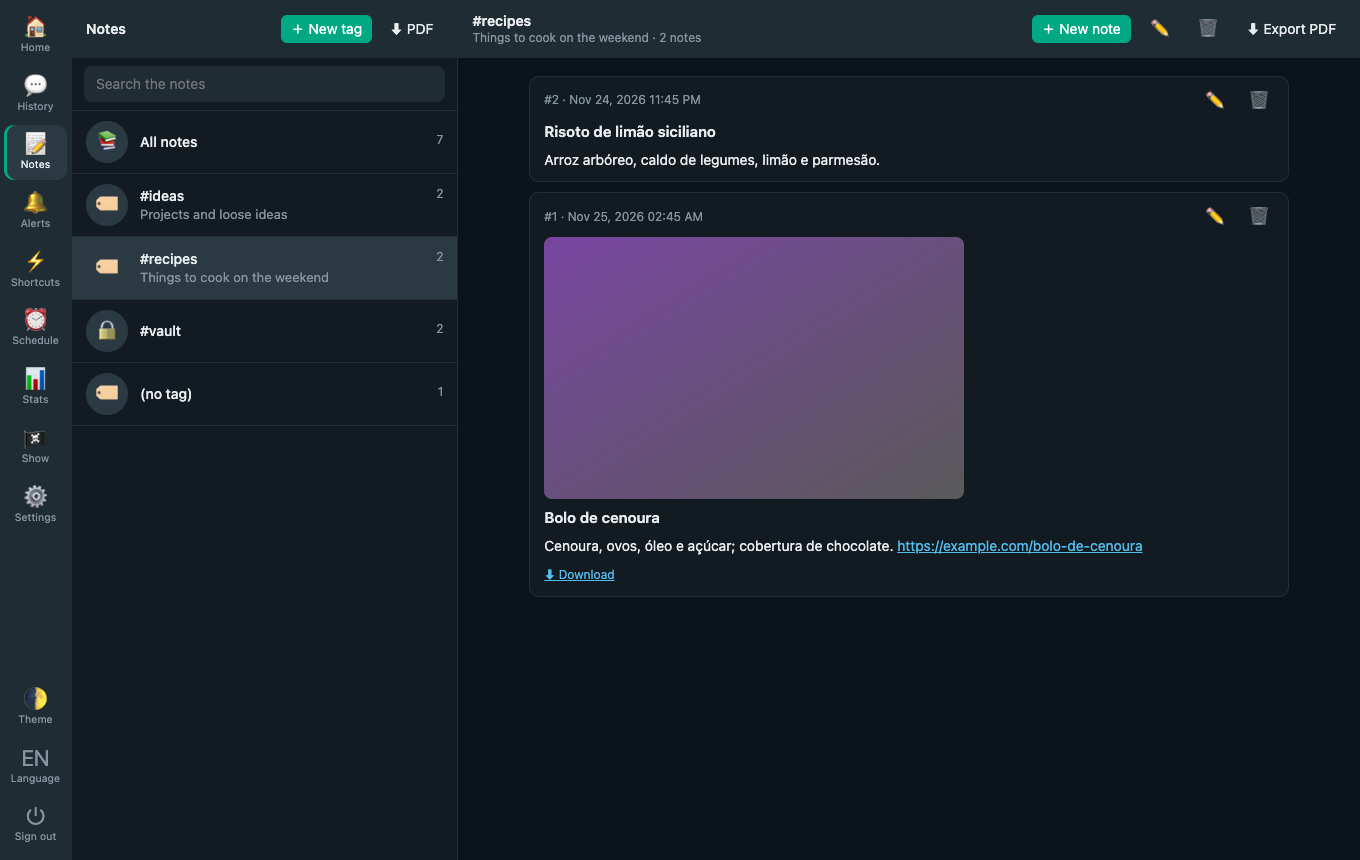
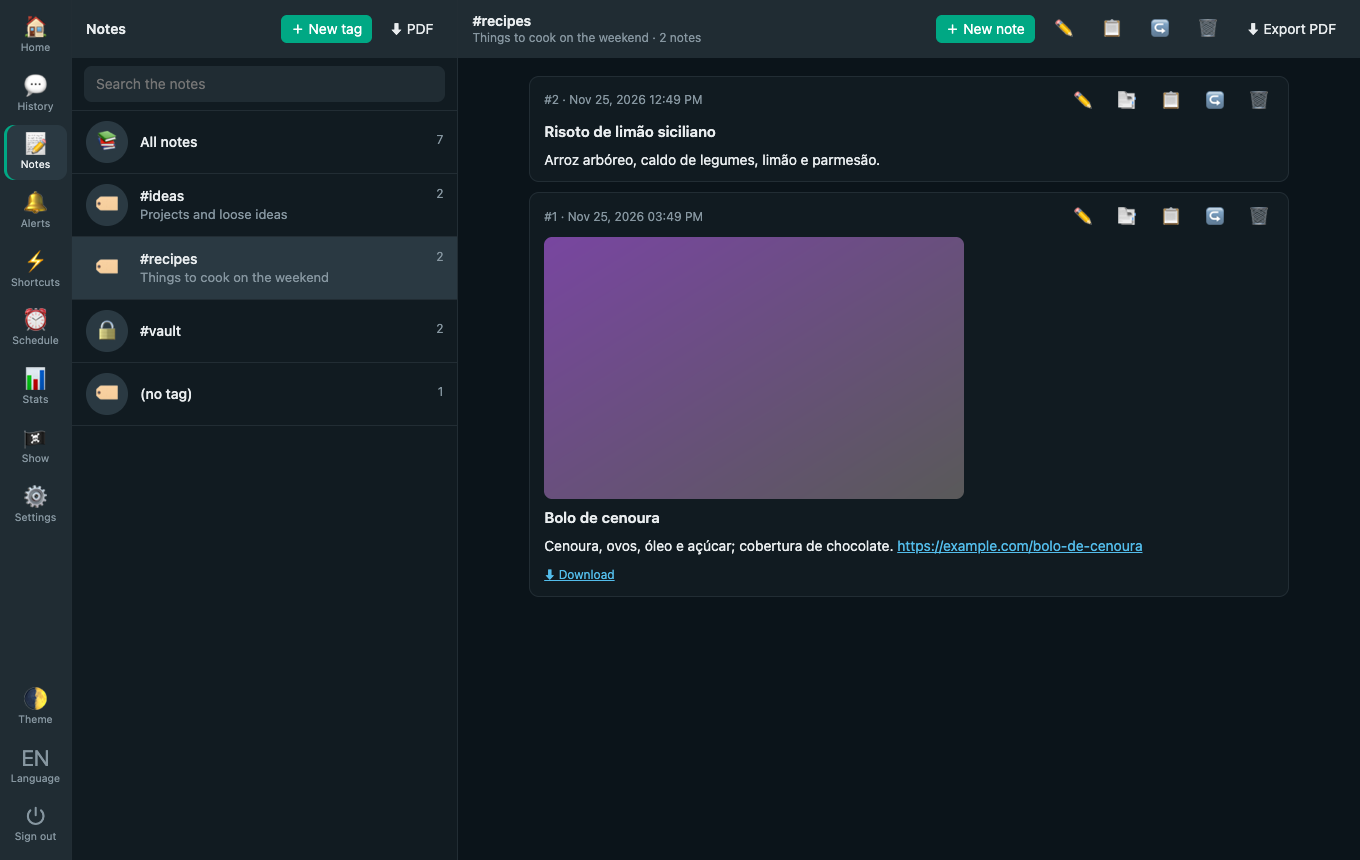
web: notes can be duplicated, copied and moved, with the tag picked from a list
A note gets 📑 (a duplicate in the same tag), 📋 (a copy to another tag) and ↪ (moves it). The tag
head gets 📋 (duplicates the tag under a new name) and ↪ (moves every note into another tag, merging
like /notes -move). Copies keep the text and the file, without the alert; protected tags stay out.

diff --git a/src/web/public/app.js b/src/web/public/app.js
@@ -28,7 +28,7 @@ const TEXTS = {
         vsPrevious: 'vs the previous period', noData: 'No data in this period yet.', cPerDay: 'Messages per day', cDeletedEdited: 'Deleted and edited per day', cHours: 'Messages by hour of the day',
         cHeat: 'When the chat is busy (weekday x hour)', cTypes: 'What the messages are', cChats: 'Chats with the most messages', cPeople: 'People who talk the most',
         text: 'text', mediaWord: 'media', weekdays: ['Sun', 'Mon', 'Tue', 'Wed', 'Thu', 'Fri', 'Sat'], msgsWord: 'messages', share: 'of the total',
-        cannotShow: 'this message could not be shown', phTag: 'travel', phTagDesc: 'places to visit', phNoteTag: 'ideas', envForced: (env) => `Decided by the ${env} variable (config/.env), which has priority over this setting`, noticeOn: 'Off: click to turn it on', noticeOff: 'On: click to turn it off', runOn: 'Running: click to pause', runOff: 'Paused: click to resume', clearHistory: 'Clear the history of this chat', clearBtn: 'Clear', clearTitle: (name) => `Clear the history · ${name}`, clearInfo: (r) => `${r.removed} messages will be deleted (with their media). ${r.kept} stay: the deleted, the edited and the ones with reactions, with what they had before.`, clearNothing: 'Nothing to delete: every message here is a deleted, edited or reacted one.', clearEmpty: 'This chat has no messages in the database.', cacheBtn: 'Clean', deleteNote: 'Delete the note', notice: 'Notice', spy: { nav: 'Show', subtitle: 'What /show keeps: the deleted, the edited, the reactions, the statuses and the channels', kinds: { deleted: 'Deleted', edited: 'Edited', reactions: 'Reactions', status: 'Statuses', channels: 'Channels' }, alerts: 'Notices in your private chat', alertOn: 'On: click to turn it off', alertOff: 'Off: click to turn it on', people: 'Who deletes, edits and reacts the most', nobody: 'Nobody yet.', search: 'Search the text, the chat or the person', empty: 'Nothing here.', mute: 'Mute this person (/mute)', unmute: 'Unmute (/unmute)', muted: 'muted', removeTitle: 'Take it out of the cache', removeText: 'The bot forgets this item (and its media); WhatsApp is not touched.', removed: 'removed', media: 'Open the media', openChat: 'Open the chat at this message', mutedCount: (n) => `${n} muted`, selectAll: 'All', selectOne: 'Select', selectHint: 'Click the items to select them (Shift+click: a range)', selected: (n) => `${n} selected`, removeSelected: (n) => `Take ${n} item${n === 1 ? '' : 's'} out of the cache` }, cacheClean: 'Clean the cache (/cache)', cacheRetention: 'What is past the retention windows (/cache -clean)', cachePick: 'Pick at least one.', cacheAll: 'Everything (/cache -all): every message (deleted, edited and reacted included), media, temporary files and backups', cacheAllWarning: '⚠ Everything takes the whole history of every chat and the backups too: there is no undo. The notes always stay.', flushAll: 'Clear the history of every chat', flushBtn: 'Clear every chat', flushEmpty: 'There are no messages in the database.', flushWarning: (n) => `⚠ This clears the history of all the ${n} chats at once, not only this one. There is no undo (only a /backup).`, clearAll: (n) => `Delete everything (${n}), including the deleted, the edited and the reacted ones, with their media`, webPanel: 'Web interface', webAt: 'Open at', webAccess: 'Access', webLogin: 'Login and session', webScreen: 'Screen', webAlerts: 'Warnings', notSet: 'not set', needsRestart: 'Takes effect when the bot restarts', restSettings: 'All the other settings', protectedHere: 'Change it with /set in WhatsApp',  meBtn: 'Me (my private chat)', watchedBy: '/watch', openInHistory: 'Open in the history, at this message', presenceSource: 'WhatsApp presence · time not confirmed', newTag: 'New tag', newNote: 'New note', editTagBtn: 'Edit the tag', removeTag: 'Remove the tag', confirmRemoveTag: 'Remove this tag (it has no notes)?', removeTagWithNotes: 'Remove the tag and everything in it', removeTagInfo: (n) => `${n} note${n === 1 ? '' : 's'} (and their media) will be deleted, along with the tag's description and lock, if any.`, historyBtn: 'History', loadingHistory: 'Loading the history…', searchContact: 'Search a contact or group (name or number) or type an email', pickContact: 'Search the contact (name or number)', noMatches: 'No contact found', privateChat: 'Empty: it goes to your private chat', useEmail: (email) => `✉ Use ${email}`, updatedAt: (time) => `updated at ${time}`, noHistory: 'Nothing recorded yet.', removeReading: 'Remove this reading', historyOf: (name, total) => `${name} · ${total}`, securityChanged: (who) => `🔒 ${who ? `${who}'s` : 'a participant\'s'} security code changed`, systemNotice: (text) => `ℹ ${text ?? 'WhatsApp notice'}`, loadMore: 'Load more', noMore: 'No more messages.', loadingFor: (name) => `Loading ${name}…`, loadingStats: 'Loading the statistics…', loadingHome: 'Loading…', statsOverview: 'Statistics', last30: 'last 30 days', seeAllStats: 'See all the statistics',
+        cannotShow: 'this message could not be shown', phTag: 'travel', phTagDesc: 'places to visit', phNoteTag: 'ideas', envForced: (env) => `Decided by the ${env} variable (config/.env), which has priority over this setting`, noticeOn: 'Off: click to turn it on', noticeOff: 'On: click to turn it off', runOn: 'Running: click to pause', runOff: 'Paused: click to resume', clearHistory: 'Clear the history of this chat', clearBtn: 'Clear', clearTitle: (name) => `Clear the history · ${name}`, clearInfo: (r) => `${r.removed} messages will be deleted (with their media). ${r.kept} stay: the deleted, the edited and the ones with reactions, with what they had before.`, clearNothing: 'Nothing to delete: every message here is a deleted, edited or reacted one.', clearEmpty: 'This chat has no messages in the database.', cacheBtn: 'Clean', deleteNote: 'Delete the note', notice: 'Notice', spy: { nav: 'Show', subtitle: 'What /show keeps: the deleted, the edited, the reactions, the statuses and the channels', kinds: { deleted: 'Deleted', edited: 'Edited', reactions: 'Reactions', status: 'Statuses', channels: 'Channels' }, alerts: 'Notices in your private chat', alertOn: 'On: click to turn it off', alertOff: 'Off: click to turn it on', people: 'Who deletes, edits and reacts the most', nobody: 'Nobody yet.', search: 'Search the text, the chat or the person', empty: 'Nothing here.', mute: 'Mute this person (/mute)', unmute: 'Unmute (/unmute)', muted: 'muted', removeTitle: 'Take it out of the cache', removeText: 'The bot forgets this item (and its media); WhatsApp is not touched.', removed: 'removed', media: 'Open the media', openChat: 'Open the chat at this message', mutedCount: (n) => `${n} muted`, selectAll: 'All', selectOne: 'Select', selectHint: 'Click the items to select them (Shift+click: a range)', selected: (n) => `${n} selected`, removeSelected: (n) => `Take ${n} item${n === 1 ? '' : 's'} out of the cache` }, cacheClean: 'Clean the cache (/cache)', cacheRetention: 'What is past the retention windows (/cache -clean)', cachePick: 'Pick at least one.', cacheAll: 'Everything (/cache -all): every message (deleted, edited and reacted included), media, temporary files and backups', cacheAllWarning: '⚠ Everything takes the whole history of every chat and the backups too: there is no undo. The notes always stay.', flushAll: 'Clear the history of every chat', flushBtn: 'Clear every chat', flushEmpty: 'There are no messages in the database.', flushWarning: (n) => `⚠ This clears the history of all the ${n} chats at once, not only this one. There is no undo (only a /backup).`, clearAll: (n) => `Delete everything (${n}), including the deleted, the edited and the reacted ones, with their media`, webPanel: 'Web interface', webAt: 'Open at', webAccess: 'Access', webLogin: 'Login and session', webScreen: 'Screen', webAlerts: 'Warnings', notSet: 'not set', needsRestart: 'Takes effect when the bot restarts', restSettings: 'All the other settings', protectedHere: 'Change it with /set in WhatsApp',  meBtn: 'Me (my private chat)', watchedBy: '/watch', openInHistory: 'Open in the history, at this message', presenceSource: 'WhatsApp presence · time not confirmed', newTag: 'New tag', newNote: 'New note', editTagBtn: 'Edit the tag', copyTag: 'Duplicate the tag', copyTagInfo: (n) => `Its ${n} note${n === 1 ? '' : 's'} (and files) go as copies to the new tag, without the alerts.`, moveNote: 'Move to another tag', copyNote: 'Copy to another tag', duplicateNote: 'Duplicate the note', moveTag: 'Move every note to another tag', moveTagInfo: (n) => `The ${n} note${n === 1 ? '' : 's'} go to the tag you pick (if it has notes, the two merge).`, copyNoteInfo: 'The copy keeps the text and the file, without the alert.', pickTag: 'Tag', orNewTag: 'or a new tag', removeTag: 'Remove the tag', confirmRemoveTag: 'Remove this tag (it has no notes)?', removeTagWithNotes: 'Remove the tag and everything in it', removeTagInfo: (n) => `${n} note${n === 1 ? '' : 's'} (and their media) will be deleted, along with the tag's description and lock, if any.`, historyBtn: 'History', loadingHistory: 'Loading the history…', searchContact: 'Search a contact or group (name or number) or type an email', pickContact: 'Search the contact (name or number)', noMatches: 'No contact found', privateChat: 'Empty: it goes to your private chat', useEmail: (email) => `✉ Use ${email}`, updatedAt: (time) => `updated at ${time}`, noHistory: 'Nothing recorded yet.', removeReading: 'Remove this reading', historyOf: (name, total) => `${name} · ${total}`, securityChanged: (who) => `🔒 ${who ? `${who}'s` : 'a participant\'s'} security code changed`, systemNotice: (text) => `ℹ ${text ?? 'WhatsApp notice'}`, loadMore: 'Load more', noMore: 'No more messages.', loadingFor: (name) => `Loading ${name}…`, loadingStats: 'Loading the statistics…', loadingHome: 'Loading…', statsOverview: 'Statistics', last30: 'last 30 days', seeAllStats: 'See all the statistics',
         code: '6-digit code', quotedGone: 'message not in the database', searchAll: 'Search all the messages', searchResults: (n) => `${n} results`, exportChat: 'Export PDF', reacted: 'reaction', removedReaction: 'removed', reactionHistory: 'Reaction history',
         reactionChanged: 'Changed reaction', reactionRemoved: 'Removed reaction', autoRefresh: 'New messages',
         home: 'Home', navHistory: 'History', notes: 'Notes', alerts: 'Alerts', aliases: 'Shortcuts', schedule: 'Schedule', stats: 'Stats', settings: 'Settings',
@@ -71,7 +71,7 @@ const TEXTS = {
         vsPrevious: 'em relação ao período anterior', noData: 'Ainda não há dados neste período.', cPerDay: 'Mensagens por dia', cDeletedEdited: 'Apagadas e editadas por dia', cHours: 'Mensagens por hora do dia',
         cHeat: 'Quando o movimento é maior (dia da semana x hora)', cTypes: 'O que são as mensagens', cChats: 'Conversas com mais mensagens', cPeople: 'Quem mais fala',
         text: 'texto', mediaWord: 'mídia', weekdays: ['Dom', 'Seg', 'Ter', 'Qua', 'Qui', 'Sex', 'Sáb'], msgsWord: 'mensagens', share: 'do total',
-        cannotShow: 'não foi possível mostrar esta mensagem', phTag: 'viagens', phTagDesc: 'lugares para conhecer', phNoteTag: 'ideias', envForced: (env) => `Decidido pela variável ${env} (config/.env), que tem prioridade sobre este setting`, noticeOn: 'Desligado: clique para ligar', noticeOff: 'Ligado: clique para desligar', runOn: 'Ativo: clique para pausar', runOff: 'Pausado: clique para retomar', clearHistory: 'Limpar o histórico desta conversa', clearBtn: 'Limpar', clearTitle: (name) => `Limpar o histórico · ${name}`, clearInfo: (r) => `${r.removed} mensagens serão apagadas (com a mídia). ${r.kept} ficam: as apagadas, as editadas e as com reações, com o que tinham antes.`, clearNothing: 'Nada a apagar: toda mensagem daqui é apagada, editada ou tem reação.', clearEmpty: 'Esta conversa não tem mensagens no banco.', cacheBtn: 'Limpar', deleteNote: 'Apagar a nota', notice: 'Aviso', spy: { nav: 'Show', subtitle: 'O que o /show guarda: as apagadas, as editadas, as reações, os status e os canais', kinds: { deleted: 'Apagadas', edited: 'Editadas', reactions: 'Reações', status: 'Status', channels: 'Canais' }, alerts: 'Avisos no seu privado', alertOn: 'Ligado: clique para desligar', alertOff: 'Desligado: clique para ligar', people: 'Quem mais apaga, edita e reage', nobody: 'Ninguém ainda.', search: 'Busque no texto, na conversa ou na pessoa', empty: 'Nada aqui.', mute: 'Silenciar esta pessoa (/mute)', unmute: 'Tirar o silêncio (/unmute)', muted: 'silenciada', removeTitle: 'Tirar do cache', removeText: 'O bot esquece este item (e a mídia dele); o WhatsApp não é tocado.', removed: 'tirou', media: 'Abrir a mídia', openChat: 'Abrir a conversa nesta mensagem', mutedCount: (n) => `${n} silenciadas`, selectAll: 'Todas', selectOne: 'Selecionar', selectHint: 'Clique nos itens para selecioná-los (Shift+clique: um intervalo)', selected: (n) => `${n} selecionado${n === 1 ? '' : 's'}`, removeSelected: (n) => `Tirar ${n} ${n === 1 ? 'item' : 'itens'} do cache` }, cacheClean: 'Limpar o cache (/cache)', cacheRetention: 'O que passou da retenção (/cache -clean)', cachePick: 'Marque pelo menos um.', cacheAll: 'Tudo (/cache -all): todas as mensagens (inclusive apagadas, editadas e com reações), mídias, temporários e backups', cacheAllWarning: '⚠ Tudo leva o histórico inteiro de todas as conversas e os backups também: não tem como desfazer. As notas ficam sempre.', flushAll: 'Limpar o histórico de todas as conversas', flushBtn: 'Limpar todas as conversas', flushEmpty: 'Não há mensagens no banco.', flushWarning: (n) => `⚠ Isto limpa o histórico de todas as ${n} conversas de uma vez, não só de uma. Não tem como desfazer (só por um /backup).`, clearAll: (n) => `Apagar tudo (${n}), inclusive as apagadas, as editadas e as com reações, com a mídia delas`, webPanel: 'Interface web', webAt: 'Abra em', webAccess: 'Acesso', webLogin: 'Login e sessão', webScreen: 'Tela', webAlerts: 'Avisos', notSet: 'não definido', needsRestart: 'Vale quando o bot reiniciar', restSettings: 'Todos os outros settings', protectedHere: 'Mude com o /set no WhatsApp',  meBtn: 'Eu (meu privado)', watchedBy: '/watch', openInHistory: 'Abrir no histórico, nesta mensagem', presenceSource: 'presença do WhatsApp · horário não confirmado', newTag: 'Nova tag', newNote: 'Nova nota', editTagBtn: 'Editar a tag', removeTag: 'Remover a tag', confirmRemoveTag: 'Remover esta tag (ela não tem notas)?', removeTagWithNotes: 'Remover a tag e tudo dentro dela', removeTagInfo: (n) => `${n} nota${n === 1 ? '' : 's'} (e a mídia delas) serão apagadas, junto com a descrição e o cadeado da tag, se houver.`, historyBtn: 'Histórico', loadingHistory: 'Carregando o histórico…', searchContact: 'Busque um contato ou grupo (nome ou número) ou digite um e-mail', pickContact: 'Busque o contato (nome ou número)', noMatches: 'Nenhum contato encontrado', privateChat: 'Vazio: vai para o seu privado', useEmail: (email) => `✉ Usar ${email}`, updatedAt: (time) => `atualizado às ${time}`, noHistory: 'Nada registrado ainda.', removeReading: 'Remover esta leitura', historyOf: (name, total) => `${name} · ${total}`, securityChanged: (who) => `🔒 o código de segurança de ${who ?? 'um participante'} mudou`, systemNotice: (text) => `ℹ ${text ?? 'aviso do WhatsApp'}`, loadMore: 'Carregar mais', noMore: 'Não há mais mensagens.', loadingFor: (name) => `Carregando ${name}…`, loadingStats: 'Carregando as estatísticas…', loadingHome: 'Carregando…', statsOverview: 'Estatísticas', last30: 'últimos 30 dias', seeAllStats: 'Ver todas as estatísticas',
+        cannotShow: 'não foi possível mostrar esta mensagem', phTag: 'viagens', phTagDesc: 'lugares para conhecer', phNoteTag: 'ideias', envForced: (env) => `Decidido pela variável ${env} (config/.env), que tem prioridade sobre este setting`, noticeOn: 'Desligado: clique para ligar', noticeOff: 'Ligado: clique para desligar', runOn: 'Ativo: clique para pausar', runOff: 'Pausado: clique para retomar', clearHistory: 'Limpar o histórico desta conversa', clearBtn: 'Limpar', clearTitle: (name) => `Limpar o histórico · ${name}`, clearInfo: (r) => `${r.removed} mensagens serão apagadas (com a mídia). ${r.kept} ficam: as apagadas, as editadas e as com reações, com o que tinham antes.`, clearNothing: 'Nada a apagar: toda mensagem daqui é apagada, editada ou tem reação.', clearEmpty: 'Esta conversa não tem mensagens no banco.', cacheBtn: 'Limpar', deleteNote: 'Apagar a nota', notice: 'Aviso', spy: { nav: 'Show', subtitle: 'O que o /show guarda: as apagadas, as editadas, as reações, os status e os canais', kinds: { deleted: 'Apagadas', edited: 'Editadas', reactions: 'Reações', status: 'Status', channels: 'Canais' }, alerts: 'Avisos no seu privado', alertOn: 'Ligado: clique para desligar', alertOff: 'Desligado: clique para ligar', people: 'Quem mais apaga, edita e reage', nobody: 'Ninguém ainda.', search: 'Busque no texto, na conversa ou na pessoa', empty: 'Nada aqui.', mute: 'Silenciar esta pessoa (/mute)', unmute: 'Tirar o silêncio (/unmute)', muted: 'silenciada', removeTitle: 'Tirar do cache', removeText: 'O bot esquece este item (e a mídia dele); o WhatsApp não é tocado.', removed: 'tirou', media: 'Abrir a mídia', openChat: 'Abrir a conversa nesta mensagem', mutedCount: (n) => `${n} silenciadas`, selectAll: 'Todas', selectOne: 'Selecionar', selectHint: 'Clique nos itens para selecioná-los (Shift+clique: um intervalo)', selected: (n) => `${n} selecionado${n === 1 ? '' : 's'}`, removeSelected: (n) => `Tirar ${n} ${n === 1 ? 'item' : 'itens'} do cache` }, cacheClean: 'Limpar o cache (/cache)', cacheRetention: 'O que passou da retenção (/cache -clean)', cachePick: 'Marque pelo menos um.', cacheAll: 'Tudo (/cache -all): todas as mensagens (inclusive apagadas, editadas e com reações), mídias, temporários e backups', cacheAllWarning: '⚠ Tudo leva o histórico inteiro de todas as conversas e os backups também: não tem como desfazer. As notas ficam sempre.', flushAll: 'Limpar o histórico de todas as conversas', flushBtn: 'Limpar todas as conversas', flushEmpty: 'Não há mensagens no banco.', flushWarning: (n) => `⚠ Isto limpa o histórico de todas as ${n} conversas de uma vez, não só de uma. Não tem como desfazer (só por um /backup).`, clearAll: (n) => `Apagar tudo (${n}), inclusive as apagadas, as editadas e as com reações, com a mídia delas`, webPanel: 'Interface web', webAt: 'Abra em', webAccess: 'Acesso', webLogin: 'Login e sessão', webScreen: 'Tela', webAlerts: 'Avisos', notSet: 'não definido', needsRestart: 'Vale quando o bot reiniciar', restSettings: 'Todos os outros settings', protectedHere: 'Mude com o /set no WhatsApp',  meBtn: 'Eu (meu privado)', watchedBy: '/watch', openInHistory: 'Abrir no histórico, nesta mensagem', presenceSource: 'presença do WhatsApp · horário não confirmado', newTag: 'Nova tag', newNote: 'Nova nota', editTagBtn: 'Editar a tag', copyTag: 'Duplicar a tag', copyTagInfo: (n) => `As ${n} nota${n === 1 ? '' : 's'} (e os arquivos) vão como cópia para a nova tag, sem os alertas.`, moveNote: 'Mover para outra tag', copyNote: 'Copiar para outra tag', duplicateNote: 'Duplicar a nota', moveTag: 'Mover todas as notas para outra tag', moveTagInfo: (n) => `As ${n} nota${n === 1 ? '' : 's'} vão para a tag que você escolher (se ela já tem notas, as duas se juntam).`, copyNoteInfo: 'A cópia leva o texto e o arquivo, sem o alerta.', pickTag: 'Tag', orNewTag: 'ou uma tag nova', removeTag: 'Remover a tag', confirmRemoveTag: 'Remover esta tag (ela não tem notas)?', removeTagWithNotes: 'Remover a tag e tudo dentro dela', removeTagInfo: (n) => `${n} nota${n === 1 ? '' : 's'} (e a mídia delas) serão apagadas, junto com a descrição e o cadeado da tag, se houver.`, historyBtn: 'Histórico', loadingHistory: 'Carregando o histórico…', searchContact: 'Busque um contato ou grupo (nome ou número) ou digite um e-mail', pickContact: 'Busque o contato (nome ou número)', noMatches: 'Nenhum contato encontrado', privateChat: 'Vazio: vai para o seu privado', useEmail: (email) => `✉ Usar ${email}`, updatedAt: (time) => `atualizado às ${time}`, noHistory: 'Nada registrado ainda.', removeReading: 'Remover esta leitura', historyOf: (name, total) => `${name} · ${total}`, securityChanged: (who) => `🔒 o código de segurança de ${who ?? 'um participante'} mudou`, systemNotice: (text) => `ℹ ${text ?? 'aviso do WhatsApp'}`, loadMore: 'Carregar mais', noMore: 'Não há mais mensagens.', loadingFor: (name) => `Carregando ${name}…`, loadingStats: 'Carregando as estatísticas…', loadingHome: 'Carregando…', statsOverview: 'Estatísticas', last30: 'últimos 30 dias', seeAllStats: 'Ver todas as estatísticas',
         code: 'Código de 6 dígitos', quotedGone: 'mensagem fora do banco', searchAll: 'Buscar em todas as mensagens', searchResults: (n) => `${n} resultados`, exportChat: 'Exportar PDF', reacted: 'reação', removedReaction: 'removida', reactionHistory: 'Histórico de reações',
         reactionChanged: 'Alterou a reação', reactionRemoved: 'Removeu a reação', autoRefresh: 'Mensagens novas',
         home: 'Início', navHistory: 'Histórico', notes: 'Notas', alerts: 'Alertas', aliases: 'Atalhos', schedule: 'Agenda', stats: 'Estatísticas', settings: 'Settings',
@@ -1467,6 +1467,20 @@ async function renderNotes(main, tags, content) {
             values: { tag, description: current.description },
             onSubmit: async (body) => { const result = await manage({ section: 'tag', op: 'edit', id: tag, ...body }); if (!result.error) { state.notesTag = result.tag ?? tag; showNotes(content); } return result; }
         }) }, '✏') : null,
+        tag && current && !current.protected ? el('button', { class: 'btn', title: T.copyTag, onclick: () => openForm({
+            title: `${T.copyTag} · #${tag}`,
+            fields: [{ type: 'note', name: 'info', text: T.copyTagInfo(current.total) }, { name: 'tag', label: 'tag', type: 'text', required: true, placeholder: `${tag}-2` }],
+            values: {},
+            submitLabel: `📋 ${T.copyTag}`,
+            onSubmit: async (body) => { const result = await manage({ section: 'tag', op: 'copy', id: tag, tag: body.tag }); if (!result.error) { state.notesTag = result.tag ?? tag; showNotes(content); } return result; }
+        }) }, '📋') : null,
+        tag && current && current.total && !current.protected ? el('button', { class: 'btn', title: T.moveTag, onclick: () => openForm({
+            title: `${T.moveTag} · #${tag}`,
+            fields: [{ type: 'note', name: 'info', text: T.moveTagInfo(current.total) }, ...tagPicker(tags, { except: tag, noTag: false })],
+            values: {},
+            submitLabel: `↪ ${T.moveTag}`,
+            onSubmit: async (body) => { const result = await manage({ section: 'tag', op: 'move', id: tag, tag: pickedTag(body) }); if (!result.error) { state.notesTag = result.tag ?? tag; showNotes(content); } return result; }
+        }) }, '↪') : null,
         tag && current ? el('button', { class: 'btn', title: current.total ? T.removeTagWithNotes : T.removeTag, onclick: async () => {
             if (!current.total) {
                 confirmBox({
@@ -1500,7 +1514,7 @@ async function renderNotes(main, tags, content) {
     const body = el('div', { class: 'messages notes' });
     if (current?.protected && !current.unlocked) body.append(lockPanel(tag, content));
     else if (!notes.length) body.append(el('div', { class: 'empty' }, T.noNotes));
-    else for (const note of notes) body.append(noteCard(note, !state.notesTag, content));
+    else for (const note of notes) body.append(noteCard(note, !state.notesTag, content, tags));
     main.replaceChildren(head, body);
 }
 
@@ -1520,7 +1534,15 @@ function lockPanel(tag, content) {
     return el('form', { class: 'lockpanel', onsubmit: submit }, el('div', { class: 'lock-icon' }, '🔒'), el('h3', {}, `#${tag} · ${T.locked}`), el('p', { class: 'muted' }, T.lockedHint), input, el('button', { class: 'btn on', type: 'submit' }, T.unlock), error);
 }
 
-function noteCard(note, showTag, content) {
+// Fields that pick a tag from the list (the protected ones and `except` stay out) or take a new name
+function tagPicker(tags, { except = null, noTag = true } = {}) {
+    const options = tags.filter(x => !x.protected && x.tag && x.tag !== except).map(x => [x.tag, `#${x.tag}`]);
+    if (noTag && except !== '') options.unshift(['', T.noTag]);
+    return [{ name: 'tag', label: T.pickTag, type: 'select', options }, { name: 'newTag', label: T.orNewTag, type: 'text', placeholder: T.phNoteTag }];
+}
+const pickedTag = (body) => (body.newTag ?? '').trim() || body.tag;
+
+function noteCard(note, showTag, content, tags = []) {
     if (note.locked) {
         return el('div', { class: 'note locked' }, el('div', { class: 'note-head' }, `#${note.id} · 🔒 #${note.tag} · ${T.lockedNote}`),
             el('button', { class: 'btn', onclick: () => { state.notesTag = note.tag; showNotes(content); } }, T.unlock));
@@ -1542,6 +1564,21 @@ function noteCard(note, showTag, content) {
         values: { text: note.text, tag: note.tag, alertAt: note.alertAt },
         onSubmit: async (body) => { const result = await manage({ section: 'note', op: 'edit', id: note.id, ...body }); if (!result.error) showNotes(content); return result; }
     });
+    const move = () => openForm({
+        title: `${T.moveNote} · #${note.id}`,
+        fields: tagPicker(tags, { except: note.tag ?? '' }),
+        values: {},
+        submitLabel: `↪ ${T.moveNote}`,
+        onSubmit: async (body) => { const result = await manage({ section: 'note', op: 'move', id: note.id, tag: pickedTag(body) }); if (!result.error) showNotes(content); return result; }
+    });
+    const copy = () => openForm({
+        title: `${T.copyNote} · #${note.id}`,
+        fields: [{ type: 'note', name: 'info', text: T.copyNoteInfo }, ...tagPicker(tags)],
+        values: { tag: note.tag ?? '' },
+        submitLabel: `📋 ${T.copyNote}`,
+        onSubmit: async (body) => { const result = await manage({ section: 'note', op: 'copy', id: note.id, tag: pickedTag(body) }); if (!result.error) showNotes(content); return result; }
+    });
+    const duplicate = async () => { const result = await manage({ section: 'note', op: 'copy', id: note.id }); if (!result.error) showNotes(content); };
     const remove = () => confirmBox({
         title: T.deleteNote,
         text: note.text ? (note.text.length > 160 ? `${note.text.slice(0, 160)}…` : note.text) : T.confirmDelete,
@@ -1557,7 +1594,7 @@ function noteCard(note, showTag, content) {
             showTag && note.tag ? el('span', { class: 'tagchip' }, `#${note.tag}${note.protected ? ' 🔓' : ''}`) : null,
             note.alertAt ? el('span', { class: 'alertchip' }, `⏰ ${T.alertAt}: ${fmtFull(note.alertAt)}`) : null,
             el('span', { class: 'grow' }),
-            el('button', { class: 'icon-btn', title: T.edit, onclick: edit }, '✏'), el('button', { class: 'icon-btn', title: T.remove, onclick: remove }, '🗑')),
+            el('button', { class: 'icon-btn', title: T.edit, onclick: edit }, '✏'), ...(note.protected ? [] : [el('button', { class: 'icon-btn', title: T.duplicateNote, onclick: duplicate }, '📑'), el('button', { class: 'icon-btn', title: T.copyNote, onclick: copy }, '📋'), el('button', { class: 'icon-btn', title: T.moveNote, onclick: move }, '↪')]), el('button', { class: 'icon-btn', title: T.remove, onclick: remove }, '🗑')),
         media,
         el('div', { class: 'note-title' }, linkify(title)),
         rest.length ? el('div', { class: 'text' }, linkify(rest.join('\n'))) : null,

diff --git a/src/web/notes.js b/src/web/notes.js
@@ -315,6 +315,95 @@ async function deleteTag(token, { id, confirm } = {}) {
     return { ok: true, removed: rows.length };
 }
 
+/**
+ * Duplicates a tag (a /notes -cp #tag #newtag): every note goes as a copy to the new tag, with its file copied too
+ * and without the alert (the original already notifies), and the description goes along. The new name has to be
+ * free; a protected tag is not copied (its text and files are encrypted with its own password).
+ */
+async function copyTag(token, { id, tag }) {
+    const from = readTagName(id);
+    const to = readTagName(tag);
+    if (!TAG_NAME.test(to)) return { ok: false, error: 'tag: letters, digits, - and _ (up to 40)' };
+    const known = await dbGet('SELECT 1 AS ok FROM note_tags WHERE tag = ? UNION SELECT 1 FROM notes WHERE tag = ?', [from, from]);
+    if (!from || !known) return { ok: false, error: 'tag: not found' };
+    if ((await protectedTags()).has(from)) return { ok: false, error: 'protected tag: it cannot be copied' };
+    const taken = await dbGet('SELECT 1 AS ok FROM note_tags WHERE tag = ? UNION SELECT 1 FROM notes WHERE tag = ? UNION SELECT 1 FROM note_locks WHERE tag = ?', [to, to, to]);
+    if (taken) return { ok: false, error: 'tag: the new name already exists' };
+
+    const rows = await dbAll('SELECT text, created_at, media_path, media_mime FROM notes WHERE tag = ? ORDER BY id', [from]);
+    for (const row of rows) {
+        const media = await copyMedia(row.media_path);
+        await dbRun('INSERT INTO notes (text, created_at, tag, media_path, media_mime) VALUES (?, ?, ?, ?, ?)',
+            [row.text, row.created_at, to, media, media ? row.media_mime : null]);
+    }
+    const description = await dbGet('SELECT description FROM note_tags WHERE tag = ?', [from]);
+    if (description) await dbRun('INSERT INTO note_tags (tag, description) VALUES (?, ?)', [to, description.description]);
+    printInfo(`[web] notes: #${from} copied to #${to} (${rows.length} notes)`);
+    return { ok: true, tag: to, copied: rows.length };
+}
+
+// A copy of a note's file in NOTES_DIR (null if it is gone)
+async function copyMedia(file) {
+    if (!file) return null;
+    const source = path.resolve(NOTES_DIR, file);
+    const name = path.basename(source).replace(/^\d+_[a-z0-9]+_/, '');
+    const target = path.join(NOTES_DIR, `${Date.now()}_${crypto.randomBytes(3).toString('hex')}_${name}`);
+    return (await fs.copy(source, target).then(() => true, () => false)) ? target : null;
+}
+
+/**
+ * Copies one note to a tag (the same tag: a duplicate; empty: no tag), with its file and without the alert (the
+ * original already notifies). Not from or to a protected tag (its text and files are encrypted with its password).
+ */
+async function copyNote(token, { id, tag }) {
+    const row = await dbGet('SELECT id, text, tag, media_path, media_mime FROM notes WHERE id = ?', [Number(id)]);
+    if (!row) return { ok: false, error: 'note: not found' };
+    const to = tag === undefined ? (row.tag ?? '') : readTagName(tag);
+    if (to && !TAG_NAME.test(to)) return { ok: false, error: 'tag: letters, digits, - and _ (up to 40)' };
+    const locked = await protectedTags();
+    if (locked.has(row.tag) || locked.has(to)) return { ok: false, error: 'protected tag: a note is not copied to or from it here' };
+    const media = await copyMedia(row.media_path);
+    const r = await dbRun('INSERT INTO notes (text, created_at, tag, media_path, media_mime) VALUES (?, ?, ?, ?, ?)',
+        [row.text, Date.now(), to || null, media, media ? row.media_mime : null]);
+    return { ok: true, id: r.lastID, tag: to };
+}
+
+/**
+ * Moves every note of a tag into another one, picked from the list (/notes -m #tag #tag2: if it already exists, the
+ * two merge). The description goes along when the other has none. Not from or to a protected tag.
+ */
+async function moveTag(token, { id, tag }) {
+    const from = readTagName(id);
+    const to = readTagName(tag);
+    if (!TAG_NAME.test(to)) return { ok: false, error: 'tag: letters, digits, - and _ (up to 40)' };
+    if (from === to) return { ok: false, error: 'tag: pick another tag' };
+    const known = await dbGet('SELECT 1 AS ok FROM note_tags WHERE tag = ? UNION SELECT 1 FROM notes WHERE tag = ?', [from, from]);
+    if (!from || !known) return { ok: false, error: 'tag: not found' };
+    const locked = await protectedTags();
+    if (locked.has(from) || locked.has(to)) return { ok: false, error: 'protected tag: move it with /notes -move in WhatsApp' };
+    const moved = await dbRun('UPDATE notes SET tag = ? WHERE tag = ?', [to, from]);
+    await dbRun('INSERT OR IGNORE INTO note_tags (tag, description) SELECT ?, description FROM note_tags WHERE tag = ?', [to, from]);
+    await dbRun('DELETE FROM note_tags WHERE tag = ?', [from]);
+    printInfo(`[web] notes: #${from} moved into #${to} (${moved.changes} notes)`);
+    return { ok: true, tag: to, moved: moved.changes };
+}
+
+/**
+ * Moves one note to another tag (empty: no tag), keeping its text, file and alert. Not to or from a protected tag
+ * (the text and the file would have to be encrypted again, or decrypted).
+ */
+async function moveNote(token, { id, tag }) {
+    const row = await dbGet('SELECT id, tag FROM notes WHERE id = ?', [Number(id)]);
+    if (!row) return { ok: false, error: 'note: not found' };
+    const to = readTagName(tag);
+    if (to && !TAG_NAME.test(to)) return { ok: false, error: 'tag: letters, digits, - and _ (up to 40)' };
+    if ((to || null) === (row.tag || null)) return { ok: false, error: 'tag: the note is already there' };
+    const locked = await protectedTags();
+    if (locked.has(row.tag) || locked.has(to)) return { ok: false, error: 'protected tag: a note does not move to or from it here' };
+    await dbRun('UPDATE notes SET tag = ? WHERE id = ?', [to || null, row.id]);
+    return { ok: true, tag: to };
+}
+
 /** A new note, as /notes <text> #tag makes one (in a protected tag only with it unlocked: the text goes encrypted) */
 async function addNote(token, { text, tag, alertAt }) {
     const body = String(text ?? '').trim();
@@ -346,4 +435,4 @@ async function deleteNote(token, id) {
 
 const reset = () => { keys.clear(); attempts.clear(); };
 
-module.exports = { NONE, addNote, addTag, deleteNote, deleteTag, editTag, forget, listNotes, listTags, lockTag, noteMedia, notesPdf, reset, unlockTag, updateNote };
+module.exports = { NONE, addNote, addTag, copyNote, copyTag, deleteNote, deleteTag, editTag, moveNote, moveTag, forget, listNotes, listTags, lockTag, noteMedia, notesPdf, reset, unlockTag, updateNote };

diff --git a/tests/web.test.js b/tests/web.test.js
@@ -1168,6 +1168,67 @@ describe('alerts and notes: editing, deleting and playing', () => {
         assert.equal((await manage({ section: 'note', op: 'delete', id: 3 })).status, 400);
     });
 
+    test('notes: duplicate a tag, move one into another, and copy, duplicate and move one note', async () => {
+        fs.mkdirSync(NOTES_DIR, { recursive: true });
+        const file = path.join(NOTES_DIR, '7_zz_foto.jpg');
+        fs.writeFileSync(file, 'JPEG');
+        await note(1, 'viagem', 'praia', file, 'image/jpeg');
+        await note(2, 'viagem', 'serra');
+        await note(3, 'casa', 'pintar');
+        await bot.dbRun('UPDATE notes SET alert_at = ? WHERE id = 2', [Date.now() + 86_400_000]);
+        await bot.dbRun("INSERT INTO note_tags (tag, description) VALUES ('viagem', 'lugares')");
+
+        const copied = await manage({ section: 'tag', op: 'copy', id: 'viagem', tag: '#Viagem-2027' });
+        assert.equal(copied.status, 200, JSON.stringify(copied.body));
+        const rows = await bot.dbAll("SELECT text, alert_at, media_path FROM notes WHERE tag = 'viagem-2027' ORDER BY id");
+        assert.deepEqual(rows.map(r => [r.text, r.alert_at]), [['praia', null], ['serra', null]]);
+        assert.notEqual(rows[0].media_path, file);
+        assert.equal(fs.readFileSync(rows[0].media_path, 'utf8'), 'JPEG');
+        assert.equal((await bot.dbGet("SELECT description FROM note_tags WHERE tag = 'viagem-2027'")).description, 'lugares');
+        assert.equal((await bot.dbGet("SELECT COUNT(*) AS n FROM notes WHERE tag = 'viagem'")).n, 2, 'the original stays');
+        assert.ok((await bot.dbGet('SELECT alert_at FROM notes WHERE id = 2')).alert_at, 'the original keeps its alert');
+
+        assert.equal((await manage({ section: 'tag', op: 'copy', id: 'viagem', tag: 'casa' })).status, 400, 'a name that exists');
+        assert.equal((await manage({ section: 'tag', op: 'copy', id: 'nada', tag: 'outra' })).status, 400, 'an unknown tag');
+
+        // one note goes to another tag, with its file and alert; empty: no tag
+        assert.equal((await manage({ section: 'note', op: 'move', id: 2, tag: '#casa' })).status, 200);
+        const moved = await bot.dbGet('SELECT tag, text, alert_at FROM notes WHERE id = 2');
+        assert.deepEqual([moved.tag, moved.text, Boolean(moved.alert_at)], ['casa', 'serra', true]);
+        assert.equal((await manage({ section: 'note', op: 'move', id: 2, tag: 'casa' })).status, 400, 'already there');
+        assert.equal((await manage({ section: 'note', op: 'move', id: 2, tag: '' })).status, 200);
+        assert.equal((await bot.dbGet('SELECT tag FROM notes WHERE id = 2')).tag, null);
+
+        // one note copied: to the same tag (a duplicate) or to another, with a copy of its file and no alert
+        await bot.dbRun('UPDATE notes SET alert_at = ? WHERE id = 1', [Date.now() + 86_400_000]);
+        const dup = await manage({ section: 'note', op: 'copy', id: 1 });
+        assert.equal(dup.status, 200, JSON.stringify(dup.body));
+        const copy1 = await bot.dbGet('SELECT tag, text, alert_at, media_path FROM notes WHERE id = ?', [dup.body.id]);
+        assert.deepEqual([copy1.tag, copy1.text, copy1.alert_at], ['viagem', 'praia', null]);
+        assert.notEqual(copy1.media_path, file);
+        assert.equal(fs.readFileSync(copy1.media_path, 'utf8'), 'JPEG');
+        const other = await manage({ section: 'note', op: 'copy', id: 3, tag: 'viagem' });
+        assert.equal((await bot.dbGet('SELECT tag, text FROM notes WHERE id = ?', [other.body.id])).text, 'pintar');
+        assert.equal((await bot.dbGet('SELECT tag FROM notes WHERE id = 3')).tag, 'casa', 'the original stays');
+
+        // a whole tag into another one from the list: they merge, and the description goes when the other has none
+        const merged = await manage({ section: 'tag', op: 'move', id: 'viagem-2027', tag: 'casa' });
+        assert.equal(merged.status, 200, JSON.stringify(merged.body));
+        assert.equal(merged.body.tag, 'casa');
+        assert.equal((await bot.dbGet("SELECT COUNT(*) AS n FROM notes WHERE tag = 'viagem-2027'")).n, 0);
+        assert.equal((await bot.dbGet("SELECT COUNT(*) AS n FROM notes WHERE tag = 'casa'")).n, 3);
+        assert.equal((await bot.dbGet("SELECT description FROM note_tags WHERE tag = 'casa'")).description, 'lugares');
+        assert.equal(await bot.dbGet("SELECT 1 FROM note_tags WHERE tag = 'viagem-2027'"), undefined);
+        assert.equal((await manage({ section: 'tag', op: 'move', id: 'casa', tag: 'casa' })).status, 400);
+
+        // a protected tag: neither copied nor a note moved in or out
+        await bot.dbRun("INSERT INTO note_locks (tag, salt, verifier, created_at) VALUES ('casa', 'x', 'y', 1)");
+        assert.equal((await manage({ section: 'tag', op: 'copy', id: 'casa', tag: 'casa-2' })).status, 400);
+        assert.equal((await manage({ section: 'note', op: 'move', id: 1, tag: 'casa' })).status, 400);
+        assert.equal((await manage({ section: 'note', op: 'copy', id: 1, tag: 'casa' })).status, 400);
+        assert.equal((await manage({ section: 'tag', op: 'move', id: 'viagem', tag: 'casa' })).status, 400);
+    });
+
     test('a video (and audio) of a note plays on the page, with Range; ?download still downloads; unknown types are a download', async () => {
         fs.mkdirSync(NOTES_DIR, { recursive: true });
         const video = path.join(NOTES_DIR, '8_aa_clip.mp4');

diff --git a/src/web/manage.js b/src/web/manage.js
@@ -421,8 +421,8 @@ async function cleanCachePicked(body) {
 const HANDLERS = {
     alias: { add: saveAlias, edit: saveAlias, delete: deleteAlias },
     price: { add: addPrice, edit: editPrice, delete: deletePrice },
-    tag: { add: async (body, token) => noteResult(await webNotes.addTag(token, body)), edit: async (body, token) => noteResult(await webNotes.editTag(token, body)), delete: async (body, token) => noteResult(await webNotes.deleteTag(token, body)) },
-    note: { add: async (body, token) => noteResult(await webNotes.addNote(token, body)), edit: async (body, token) => noteResult(await webNotes.updateNote(token, body)), delete: async (body, token) => noteResult(await webNotes.deleteNote(token, body.id)) },
+    tag: { add: async (body, token) => noteResult(await webNotes.addTag(token, body)), edit: async (body, token) => noteResult(await webNotes.editTag(token, body)), copy: async (body, token) => noteResult(await webNotes.copyTag(token, body)), move: async (body, token) => noteResult(await webNotes.moveTag(token, body)), delete: async (body, token) => noteResult(await webNotes.deleteTag(token, body)) },
+    note: { add: async (body, token) => noteResult(await webNotes.addNote(token, body)), edit: async (body, token) => noteResult(await webNotes.updateNote(token, body)), move: async (body, token) => noteResult(await webNotes.moveNote(token, body)), copy: async (body, token) => noteResult(await webNotes.copyNote(token, body)), delete: async (body, token) => noteResult(await webNotes.deleteNote(token, body.id)) },
     watch: { add: saveWatch, edit: saveWatch, delete: deleteWatch, toggle: toggleWatch },
     chat: { preview: previewChat, clear: clearChat, previewAll, clearAll },
     cache: { clean: cleanCachePicked },

diff --git a/scripts/web-screenshots.js b/scripts/web-screenshots.js
@@ -308,6 +308,14 @@ async function main() {
     await page.type('.modal textarea', tr('Lisboa em maio: Alfama, Belém e um pastel de nata por dia'));
     await shot('notes-new-note', 860);
     await closeModal();
+    // ↪ on a note: the tag comes from the list of tags (the current one and the protected stay out)
+    await page.evaluate(() => [...document.querySelectorAll('.note .icon-btn')].find(b => b.textContent === '↪').click());
+    await page.waitForSelector('.modal select');
+    const tagOptions = await page.$$eval('.modal select option', (o) => o.map(x => x.textContent));
+    if (!tagOptions.includes(tr('#ideias')) || tagOptions.includes(tr('#receitas')) || tagOptions.includes(tr('#cofre'))) throw new Error(`move: the tag list is ${tagOptions}`);
+    await page.select('.modal select', tr('ideias'));
+    await shot('notes-move', 860);
+    await closeModal();
     await clickText('.chat', '#cofre');
     await page.waitForSelector('.lockpanel');
     await shot('notes-locked');

diff --git a/docs/web.md b/docs/web.md
@@ -253,12 +253,21 @@ all of them) as the same PDF of `/notes -pdf`, with the images.
   how many notes go, the same way the 🧹 of the history does, and, once you confirm, deletes every note in it, their media, the tag's
   description and its lock, if it was protected — the same as `/notes -rm #tag -yes` in WhatsApp, and a bit more (that
   command leaves the description and the lock behind; this does not).
+- **📋** duplicates the tag: it asks for the new name (it has to be free) and copies every note to it, with its file and
+  the description, but without the alerts (the originals already notify). The original tag stays as it was. A
+  protected tag is not copied.
+- **↪** moves every note of the tag to another one, picked from the list of tags (or a new name): if it already has
+  notes, the two merge, like `/notes -move #tag #tag2`. The description goes along when the other tag has none.
 - **＋ New note** adds a note to the tag, with an alert at a date and time if you want. On each card, ✏ edits the text,
-  the tag and the alert, and 🗑 deletes the note (and its file).
+  the tag and the alert, 📑 duplicates the note in the same tag, 📋 copies it to another tag and ↪ moves it (both
+  pick the tag from the list, or take a new name). The copies keep the text and the file, without the alert; a move
+  takes everything. 🗑 deletes the note (and its file). Copying or moving to or from a protected tag is not done here.
 
 ![The form of a new tag](assets/web/notes-new-tag.png)
 
 ![The form of a new note](assets/web/notes-new-note.png)
+
+![Moving a note: the tag comes from the list](assets/web/notes-move.png)
 
 ### Protected tags
 

diff --git a/docs/web.pt-BR.md b/docs/web.pt-BR.md
@@ -255,12 +255,21 @@ a tag (ou todas) no mesmo PDF do `/notes -pdf`, com as imagens.
   notas saem, do mesmo jeito que o 🧹 do histórico, e, quando você confirma, apaga todas as notas, a mídia delas, a descrição da tag e o
   cadeado, se ela era protegida — o mesmo que o `/notes -rm #tag -yes` no WhatsApp, e um pouco mais (esse comando
   deixa a descrição e o cadeado para trás; aqui não).
+- **📋** duplica a tag: pede o nome novo (tem que estar livre) e copia todas as notas para ela, com o arquivo e a
+  descrição, mas sem os alertas (as originais já avisam). A tag original fica como estava. Tag protegida não é
+  copiada.
+- **↪** move todas as notas da tag para outra, escolhida na lista de tags (ou um nome novo): se ela já tem notas, as
+  duas se juntam, como o `/notes -move #tag #tag2`. A descrição vai junto quando a outra tag não tem.
 - **＋ Nova nota** adiciona uma nota na tag, com um alerta numa data e hora se você quiser. Em cada cartão, ✏ edita o
-  texto, a tag e o alerta, e 🗑 apaga a nota (e o arquivo dela).
+  texto, a tag e o alerta, 📑 duplica a nota na mesma tag, 📋 copia para outra tag e ↪ move (os dois escolhem a tag
+  na lista, ou aceitam um nome novo). As cópias levam o texto e o arquivo, sem o alerta; mover leva tudo. 🗑 apaga a
+  nota (e o arquivo dela). Copiar ou mover para uma tag protegida, ou tirar de uma, não é feito aqui.
 
 ![O formulário de uma nova tag](assets/web/pt-BR/notes-new-tag.png)
 
 ![O formulário de uma nova nota](assets/web/pt-BR/notes-new-note.png)
+
+![Movendo uma nota: a tag vem da lista](assets/web/pt-BR/notes-move.png)
 
 ### Tags protegidas
 
